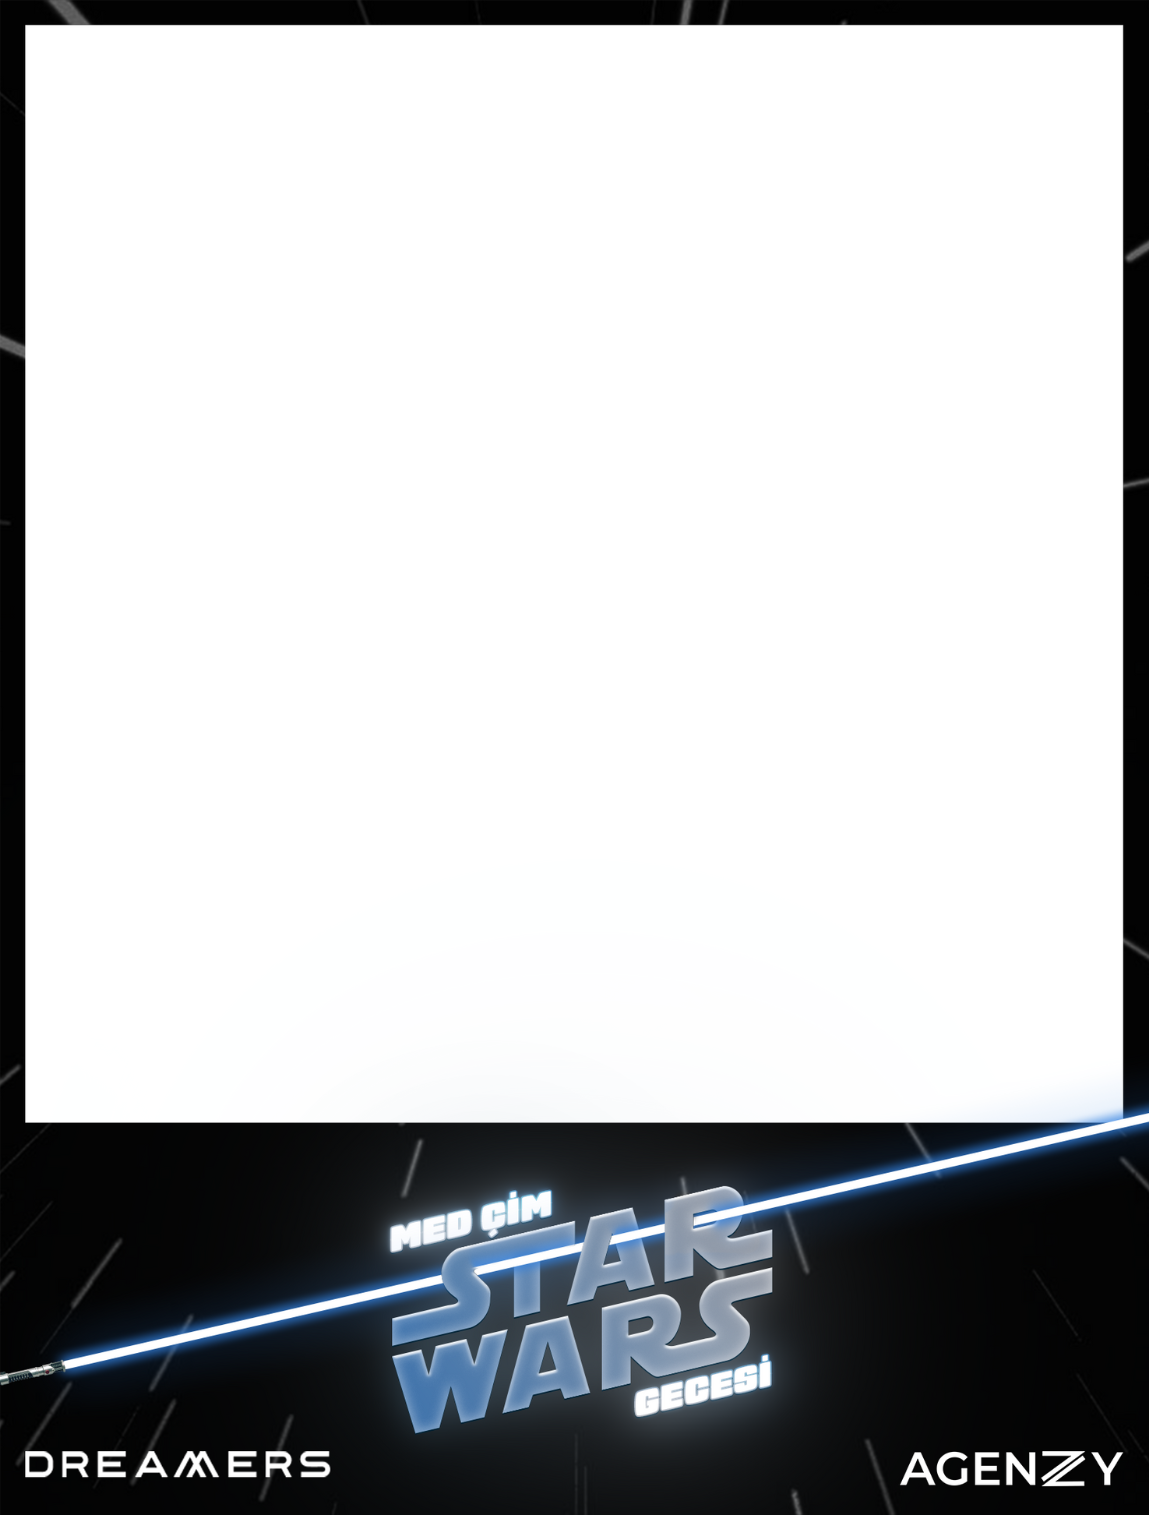
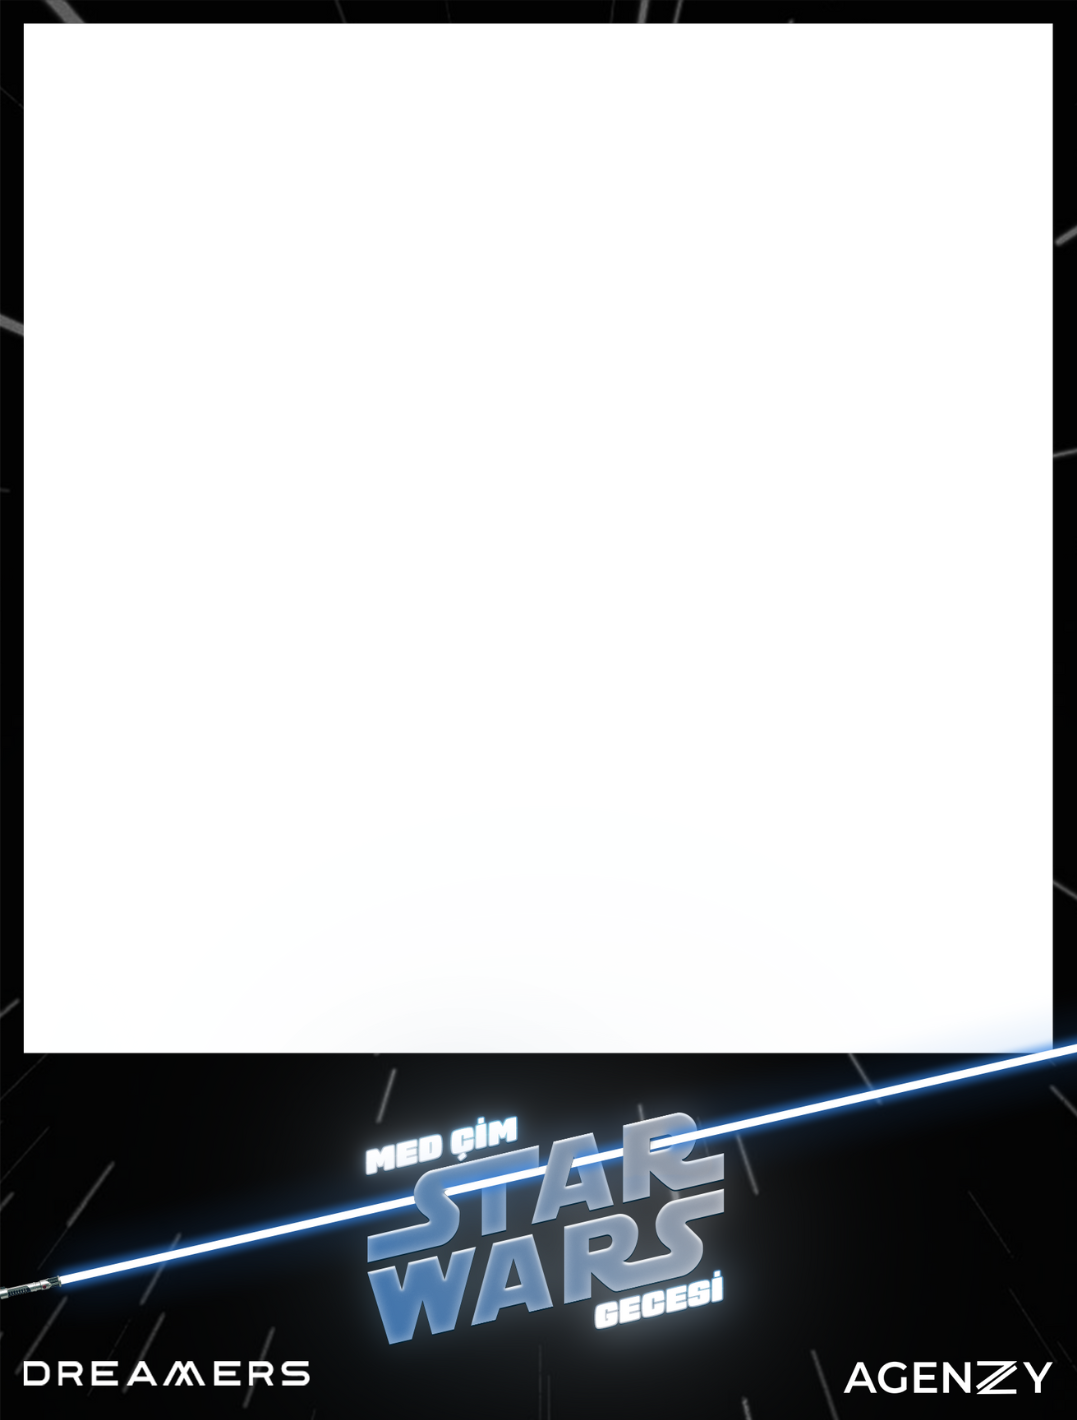
fix: try different dimensions and offsets

diff --git a/src/storage/storage.service.ts b/src/storage/storage.service.ts
@@ -16,6 +16,7 @@ export class StorageService {
       if (framed) {
         // Load images
         const image_buf = Buffer.from(image64, 'base64');
+
         const frame_path = join(__dirname, '../assets/sw-frame.png');
         const frame_logo_path = join(__dirname, '../assets/frame_logo.png');
         const frame = sharp(frame_path);
@@ -23,7 +24,7 @@ export class StorageService {
 
         // Compose
         const result_buf = await frame.composite([
-          { input: image_buf, top: 30, left: 28},
+          { input: image_buf, top: 27, left: 26},
           { input: frame_logo }
         ]).toBuffer();
 
